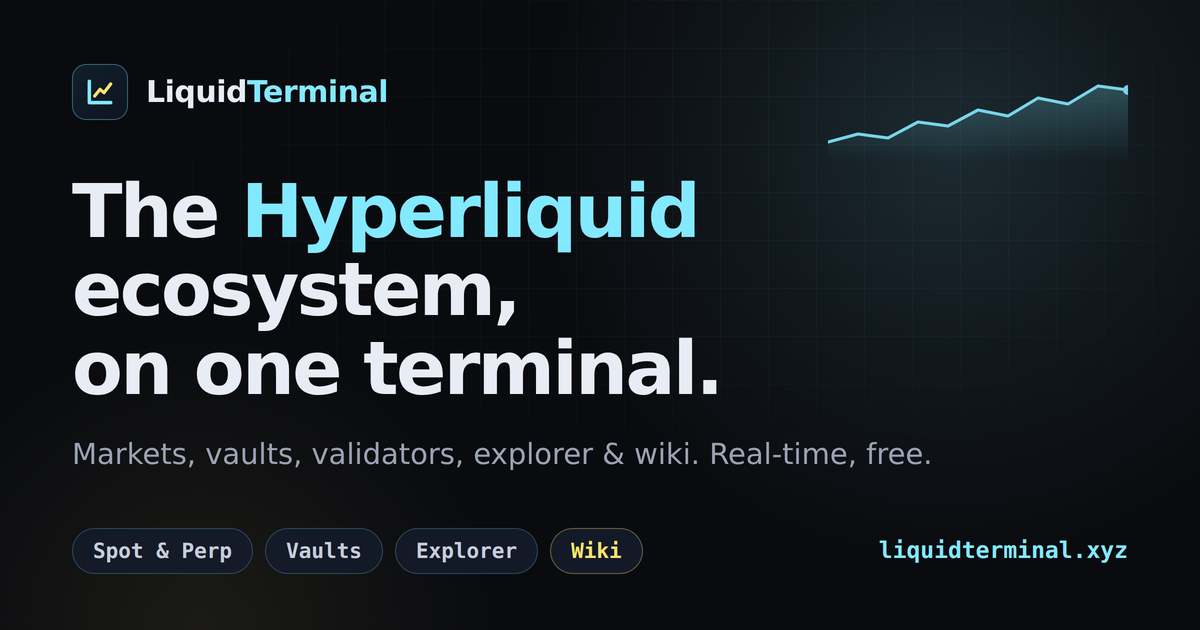
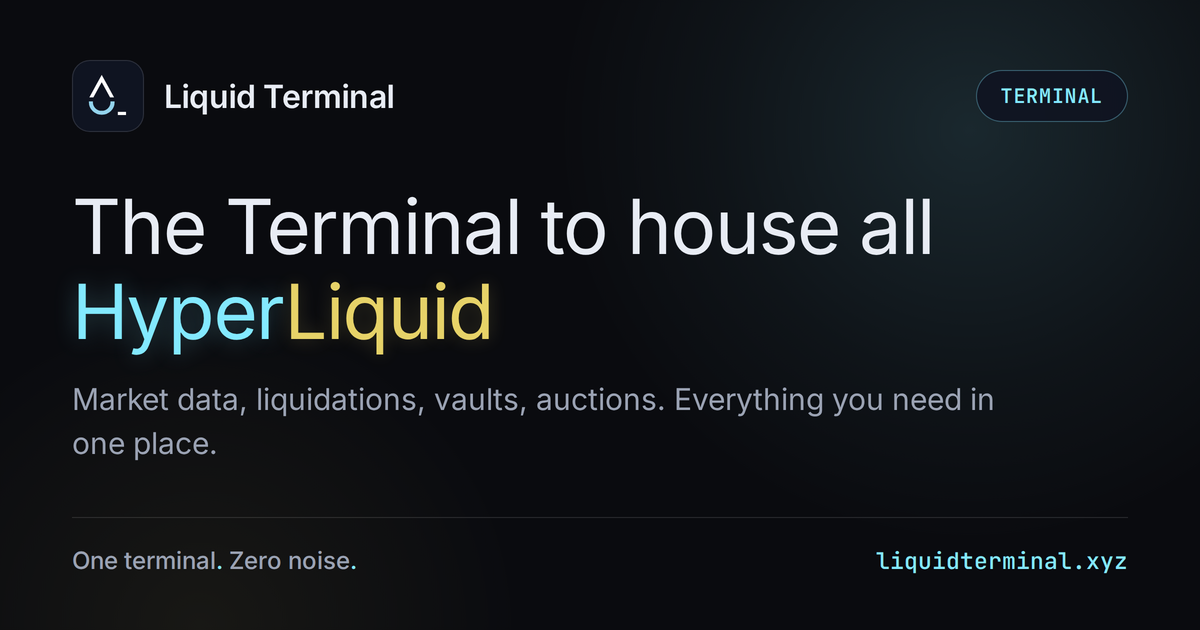
seo: on-brand OG images, one per section
- Rebuild the share card on the actual design system: real logo,
  Inter + JetBrains Mono, bg-base/surface tokens, landing halos, and
  the site's own copy (hero headline with Hyper cyan / Liquid gold,
  "One terminal. Zero noise.")
- One image per section instead of the same card everywhere:
  og/market.png, og/explorer.png, og/wiki.png, og/ecosystem.png,
  wired through the seoConfig presets and the dynamic wiki layouts

diff --git a/src/lib/seo.ts b/src/lib/seo.ts
@@ -93,6 +93,7 @@ export const seoConfig = {
       "validator tracking",
     ],
     path: "/explorer",
+    image: "/og/explorer.png",
   },
   
   market: {
@@ -108,6 +109,7 @@ export const seoConfig = {
       "market dashboard",
     ],
     path: "/market",
+    image: "/og/market.png",
   },
   
   ecosystem: {
@@ -115,6 +117,7 @@ export const seoConfig = {
     description: "Comprehensive directory of HyperLiquid ecosystem projects. Discover dApps, tools, and services built on HyperCore and HyperEVM.",
     keywords: ["HyperLiquid ecosystem", "dApps", "crypto projects", "DeFi tools", "blockchain apps"],
     path: "/ecosystem",
+    image: "/og/ecosystem.png",
   },
   
   publicGoods: {
@@ -122,6 +125,7 @@ export const seoConfig = {
     description: "Discover and support open-source projects building public goods for the HyperLiquid ecosystem. Funded by validator fees without community donations. Curated by Ryzed, Imad, and Kirby.",
     keywords: ["public goods", "open source", "grants", "HyperLiquid funding", "crypto grants", "validator funding"],
     path: "/ecosystem/public-goods",
+    image: "/og/ecosystem.png",
   },
   
   wiki: {
@@ -129,6 +133,7 @@ export const seoConfig = {
     description: "Complete knowledge base for HyperLiquid ecosystem. Guides, tutorials, documentation, and curated resources for builders and users.",
     keywords: ["HyperLiquid wiki", "crypto guides", "blockchain tutorials", "documentation", "learning resources"],
     path: "/wiki",
+    image: "/og/wiki.png",
   },
 
   hip4: {
@@ -151,6 +156,7 @@ export const seoConfig = {
     description: "Track your HyperLiquid wallets and portfolios in real-time. Organize wallets in lists, import via CSV, monitor performance. Free and premium tiers.",
     keywords: ["wallet tracker", "portfolio tracker", "crypto wallet", "multi-wallet", "HyperLiquid tracker"],
     path: "/market/tracker",
+    image: "/og/market.png",
   },
   
   api: {
@@ -172,6 +178,7 @@ export const seoConfig = {
     description: "Browse and copy public wallet lists shared by the HyperLiquid community. Discover interesting addresses and follow top traders.",
     keywords: ["wallet lists", "public lists", "trader lists", "crypto addresses", "portfolio sharing"],
     path: "/market/tracker/public-lists",
+    image: "/og/market.png",
   },
 
   spot: {
@@ -179,6 +186,7 @@ export const seoConfig = {
     description: "Real-time spot trading data for HyperLiquid tokens. Track prices, volume, liquidity, and market metrics.",
     keywords: ["spot trading", "token prices", "HyperLiquid tokens", "crypto market", "trading volume"],
     path: "/market/spot",
+    image: "/og/market.png",
   },
 
   perp: {
@@ -186,6 +194,7 @@ export const seoConfig = {
     description: "Track HyperLiquid perpetual futures markets. Real-time funding rates, open interest, liquidations, and trading volumes.",
     keywords: ["perpetual futures", "perps", "funding rates", "open interest", "crypto derivatives"],
     path: "/market/perp",
+    image: "/og/market.png",
   },
 
   spotAuction: {
@@ -193,12 +202,14 @@ export const seoConfig = {
     description: "Monitor ongoing and upcoming spot token auctions on HyperLiquid. Participate in fair launches and token distributions.",
     keywords: ["token auctions", "fair launch", "HyperLiquid auctions", "token distribution", "IDO", "spot auction"],
     path: "/market/spot/auction",
+    image: "/og/market.png",
   },
   perpAuction: {
     title: "Perpetual Auctions - HyperLiquid DEXs",
     description: "Monitor HyperLiquid Perpetual DEX auctions. Track new perpetual listings and participate in the ecosystem.",
     keywords: ["perp auctions", "HyperLiquid perps", "new listings", "DEX auctions"],
     path: "/market/perp/auction",
+    image: "/og/market.png",
   },
 
   marketBuilders: {
@@ -207,6 +218,7 @@ export const seoConfig = {
       "Explore HyperLiquid referral builders: global volume and fee stats, top builders by activity, and per-builder detail with top users.",
     keywords: ["HyperLiquid builders", "referral fees", "builder fees", "DEX builders", "indexer"],
     path: "/market/builders",
+    image: "/og/market.png",
   },
 
   marketHip4: {
@@ -215,6 +227,7 @@ export const seoConfig = {
       "Live HIP-4 prediction markets on HyperLiquid — outcome probabilities, trading volume, open interest, fills, and market resolutions.",
     keywords: ["HIP-4", "prediction markets", "HyperLiquid outcomes", "binary markets", "DEX predictions"],
     path: "/market/hip4",
+    image: "/og/market.png",
   },
 
   dashboard: {
@@ -229,6 +242,7 @@ export const seoConfig = {
     description: "Browse open-source public goods projects building on HyperLiquid. Funded by validator fees through EnigmaValidator. Curated by Ryzed (Hyperswap), Imad (Enigma), and Kirby (HypurrCo).",
     keywords: ["public goods", "open source", "HyperLiquid grants", "validator funding", "community projects", "EnigmaValidator"],
     path: "/ecosystem/publicgoods",
+    image: "/og/ecosystem.png",
   },
 
   vaults: {
@@ -236,6 +250,7 @@ export const seoConfig = {
     description: "Explore HyperLiquid vaults and their performance. Track TVL, returns, strategies, and vault metrics.",
     keywords: ["crypto vaults", "HyperLiquid vaults", "TVL", "vault strategies", "DeFi vaults"],
     path: "/explorer/vaults",
+    image: "/og/explorer.png",
   },
 
   priorityFees: {
@@ -251,6 +266,7 @@ export const seoConfig = {
       "indexer",
     ],
     path: "/explorer/priority-fees",
+    image: "/og/explorer.png",
   },
 
   validators: {
@@ -258,6 +274,7 @@ export const seoConfig = {
     description: "Monitor HyperLiquid validators, staking stats, commission rates, and network security metrics.",
     keywords: ["validators", "staking", "HyperLiquid validators", "proof of stake", "network security"],
     path: "/explorer/validator",
+    image: "/og/explorer.png",
   },
 
   liquidations: {
@@ -265,6 +282,7 @@ export const seoConfig = {
     description: "Track HyperLiquid liquidation events in real-time. Monitor size, notional value, and market impact of liquidations.",
     keywords: ["liquidations", "HyperLiquid liquidations", "trading liquidations", "perp liquidations", "market data"],
     path: "/explorer/liquidations",
+    image: "/og/explorer.png",
   },
 };
 

diff --git a/src/app/(app)/wiki/c/[slug]/layout.tsx b/src/app/(app)/wiki/c/[slug]/layout.tsx
@@ -19,6 +19,7 @@ export async function generateMetadata({
   return buildMetadata({
     title: `${name} - Hyperliquid Wiki`,
     description: `Community-curated ${name} resources for the Hyperliquid ecosystem: articles, docs and threads.`,
+    image: "/og/wiki.png",
     path: `/wiki/c/${slug}`,
   });
 }

diff --git a/src/app/(app)/wiki/learn/[chapter]/layout.tsx b/src/app/(app)/wiki/learn/[chapter]/layout.tsx
@@ -19,6 +19,7 @@ export async function generateMetadata({
   return buildMetadata({
     title: `${title} - Hyperliquid Wiki`,
     description: `Learn about ${title} on Hyperliquid: curated articles, official docs, threads and guides, ranked by community saves.`,
+    image: "/og/wiki.png",
     path: `/wiki/learn/${chapter}`,
   });
 }

diff --git a/src/app/(app)/wiki/readlists/[slug]/layout.tsx b/src/app/(app)/wiki/readlists/[slug]/layout.tsx
@@ -20,6 +20,7 @@ export async function generateMetadata({
   return buildMetadata({
     title: `${name} - Hyperliquid Read List`,
     description: `${name}: a curated Hyperliquid reading list on Liquid Terminal, with reading order and progress tracking.`,
+    image: "/og/wiki.png",
     path: `/wiki/readlists/${slug}`,
   });
 }